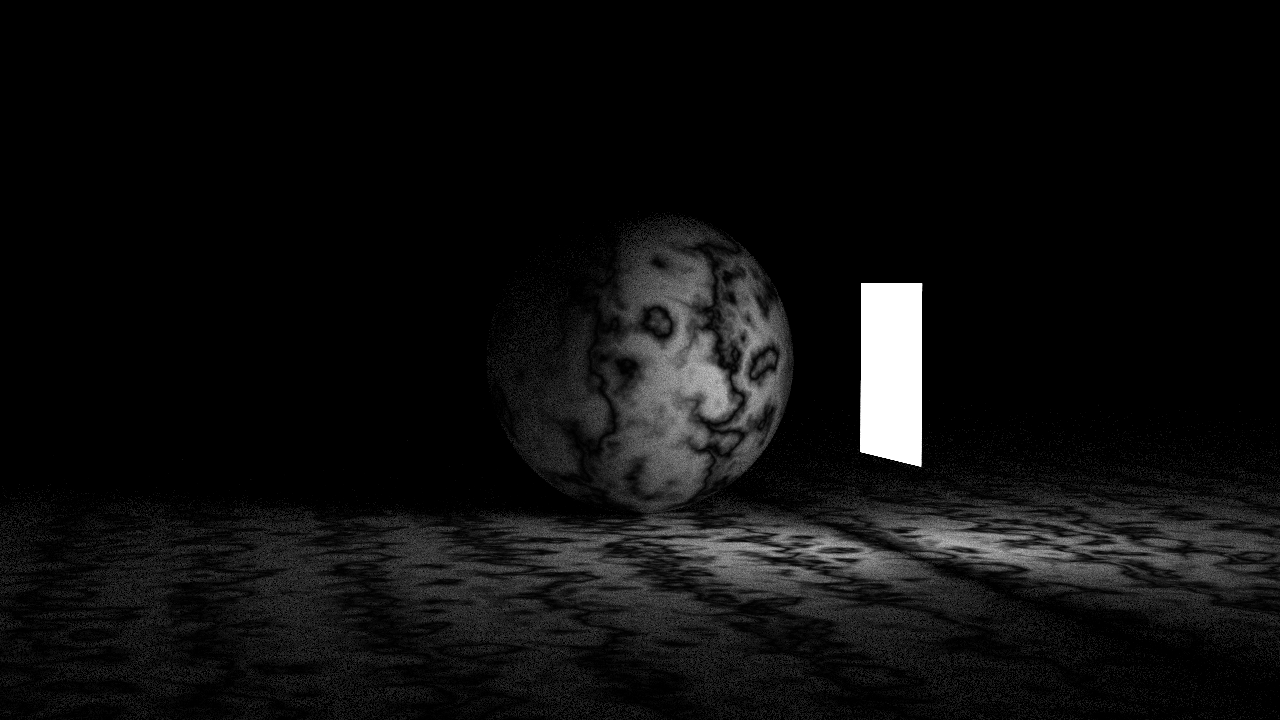
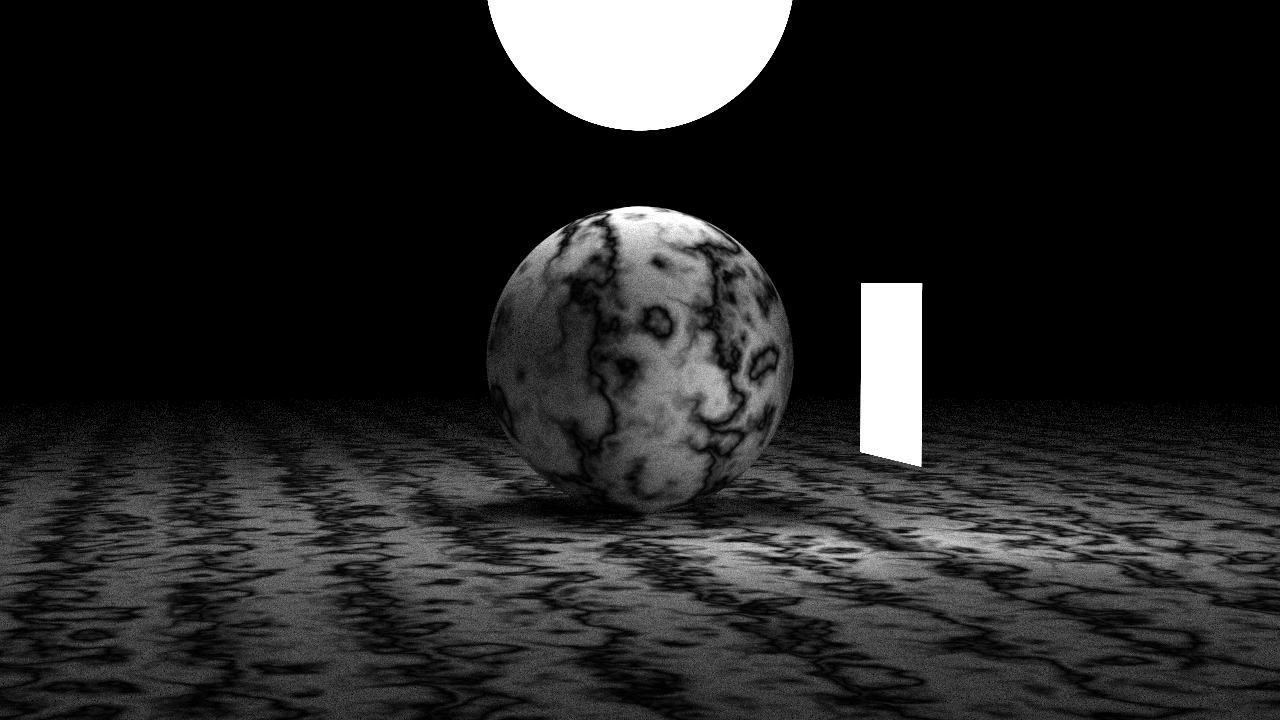
feat: simple rectangle and sphere light

Changed region(s): [[0.0, 0.275, 1.0, 1.0], [0.375, 0.0, 0.625, 0.1833], [0.5, 0.5194, 0.5625, 0.6417]]

diff --git a/utils/use_core.cpp b/utils/use_core.cpp
@@ -254,6 +254,8 @@ void render_simple_light(const std::string& output_image_format) {
     HittableList world;
 
     auto perlin_texture = pro::make_proxy_shared<Texture, NoiseTexture>(4.0);
+    world.add(pro::make_proxy_shared<Hittable, Sphere>(Vec3d {0.0, -1000.0, 0.0}, 1000.0,
+        pro::make_proxy_shared<Material, Lambertion>(perlin_texture)));
     world.add(pro::make_proxy_shared<Hittable, Sphere>(Vec3d {0.0, 2.0, 0.0}, 2.0,
         pro::make_proxy_shared<Material, Lambertion>(perlin_texture)));
 
